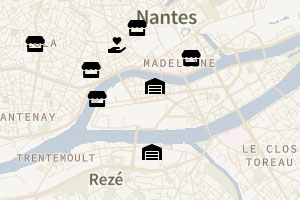
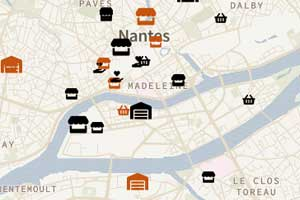
Change link preview image

diff --git a/index.html b/index.html
@@ -10,7 +10,7 @@
     <meta property="og:title" content="Bière à Nantes - Soutenez la scène brassicole nantaise" />
     <meta property="og:url" content="https://www.biereanantes.fr" />
     <meta property="og:description" content="Carte des lieux où acheter de la bière artisanale à Nantes pendant le confinement">
-    <meta property="og:image" content="https://i.imgur.com/TArQ2YW.jpg">
+    <meta property="og:image" content="https://www.biereanantes.fr/img/webpage_300x200.jpg">
     <meta property="og:type" content="website">
     <script src="https://api.mapbox.com/mapbox-gl-js/v1.7.0/mapbox-gl.js"></script>
     <link href="https://api.mapbox.com/mapbox-gl-js/v1.7.0/mapbox-gl.css" rel="stylesheet" />
